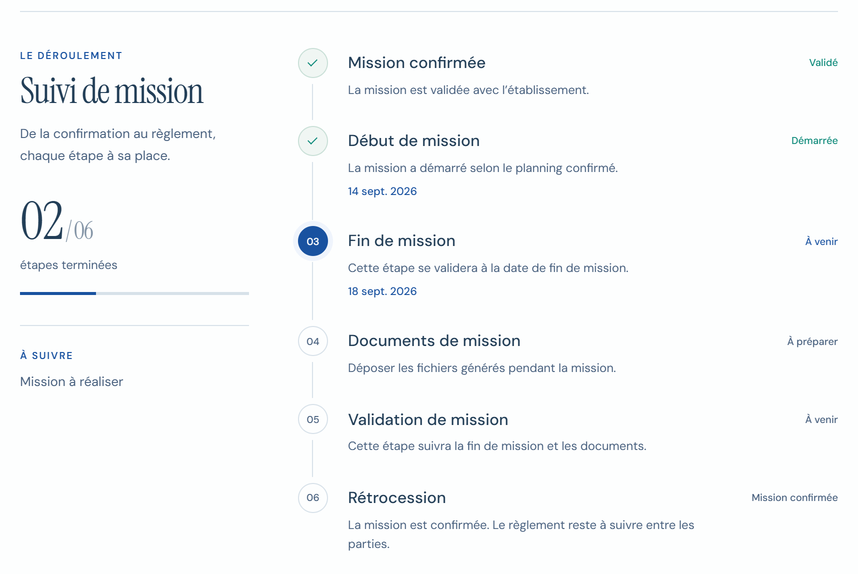
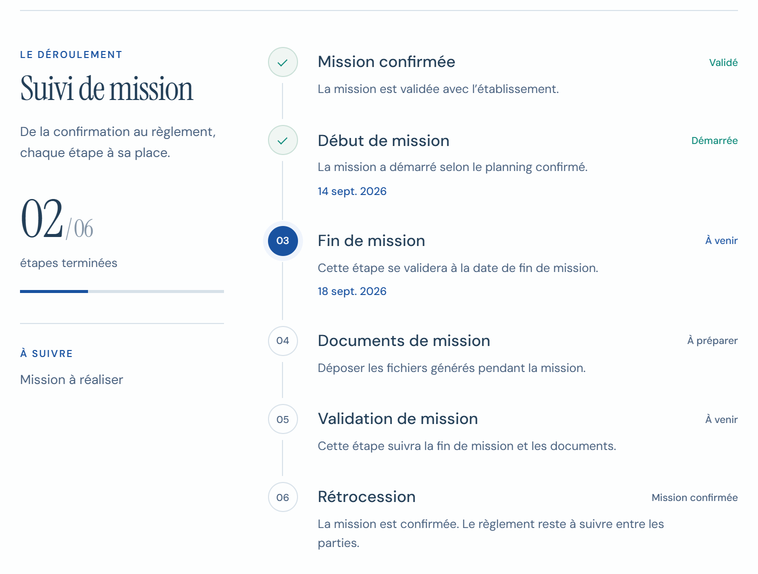
Refine landing interface previews and add mobile contributor carousel

diff --git a/medilink-frontend-v2-polished/app/(public-home)/interface-previews.css b/medilink-frontend-v2-polished/app/(public-home)/interface-previews.css
@@ -1,5 +1,4 @@
-/* Real application captures, with a separate mobile composition and no cropping
-   or stretching in the landing. Asset dimensions are generated by the capture. */
+/* Genuine application captures. Only the surrounding presentation is styled here. */
 html body.landing-home:not(.persona-page) .ml-dossier--captured {
   padding: 0;
   border: 0;
@@ -11,35 +10,42 @@ html body.landing-home:not(.persona-page) .ml-dossier--captured {
 html body.landing-home:not(.persona-page) .ml-interface-preview {
   min-width: 0;
   margin: 0;
-  padding: 16px;
-  border: 1px solid var(--brand-line);
-  border-radius: 20px;
-  background: var(--brand-frost);
-  box-shadow: var(--brand-shadow);
+  padding: 0;
+  border: 0;
+  border-radius: 0;
+  background: transparent;
+  box-shadow: none;
 }
-.landing-home .ml-interface-heading {
-  display: flex;
-  justify-content: space-between;
-  align-items: baseline;
-  gap: 14px;
-  padding: 3px 6px 17px;
-  color: var(--brand-muted);
-  font: 500 10px/1.5 var(--brand-sans);
+.landing-home .ml-interface-open { position: relative; display: block; color: var(--brand-primary); text-decoration: none; }
+.landing-home .ml-interface-stage {
+  display: block;
+  padding: 32px 28px 62px;
+  border-radius: 24px;
+  background: radial-gradient(ellipse at 30% 15%, #dde8f6 0%, #e9eff7 48%, #eff3f8 100%);
 }
-.landing-home .ml-interface-heading > span:last-child { color: var(--brand-primary); font: 400 19px/1 var(--brand-serif); }
-.landing-home .ml-interface-open { display: block; color: var(--brand-primary); }
-.landing-home .ml-interface-open picture {
+.landing-home .ml-interface-window {
   display: block;
   overflow: hidden;
-  border: 1px solid var(--brand-line);
-  border-radius: 10px;
+  border: 1px solid #cbd8e6;
+  border-radius: 12px;
   background: var(--brand-paper);
+  box-shadow: 0 22px 36px -24px #1e42654d, 0 3px 8px #1e42650a;
 }
+.landing-home .ml-interface-toolbar { display: flex; align-items: center; justify-content: space-between; gap: 12px; min-height: 36px; padding: 0 14px; border-bottom: 1px solid #dce4ed; background: #f8fafc; color: #61748b; font: 400 9px/1.4 var(--brand-sans); }
+.landing-home .ml-interface-window-dots { display: flex; gap: 5px; }
+.landing-home .ml-interface-window-dots i { width: 5px; height: 5px; border-radius: 50%; background: #c6d2df; }
+.landing-home .ml-interface-window-mark { color: #8b9caf; font: italic 14px/1 var(--brand-serif); }
+.landing-home .ml-interface-open picture { position: relative; display: block; overflow: hidden; background: var(--brand-paper); }
 .landing-home .ml-interface-open img { display: block; width: 100%; height: auto; max-width: 100%; }
-.landing-home .ml-interface-enlarge { display: flex; justify-content: flex-end; align-items: center; gap: 7px; min-height: 44px; padding: 8px 3px 0; font: 500 11px/1.4 var(--brand-sans); }
+.landing-home .ml-interface-enlarge { position: absolute; right: 28px; bottom: 6px; display: flex; align-items: center; gap: 9px; min-height: 44px; font: 500 11px/1.4 var(--brand-sans); }
+.landing-home .ml-interface-enlarge svg { transition: transform 180ms ease; }
+.landing-home .ml-interface-open:hover .ml-interface-enlarge svg { transform: translateX(3px); }
 .landing-home .ml-interface-open:hover .ml-interface-enlarge { text-decoration: underline; text-underline-offset: 4px; }
-.landing-home .ml-interface-open:focus-visible { outline: 2px solid var(--brand-focus); outline-offset: 4px; border-radius: 10px; }
-html body.landing-home:not(.persona-page) .ml-interface-preview figcaption { padding: 0 3px 3px; margin-top: -30px; margin-right: 92px; color: var(--brand-muted); font: 400 9px/1.6 var(--brand-sans); text-align: left; }
+.landing-home .ml-interface-open:focus-visible { outline: 2px solid var(--brand-focus); outline-offset: 5px; border-radius: 24px; }
+html body.landing-home:not(.persona-page) .ml-interface-preview figcaption { display: flex; flex-wrap: wrap; justify-content: space-between; gap: 5px 18px; margin: 15px 2px 0; padding: 0; color: #61748b; font: 400 9px/1.6 var(--brand-sans); text-align: left; }
+.landing-home .ml-interface-title { color: var(--brand-muted); font-size: 10px; font-weight: 500; }
+.landing-home .ml-interface-preview--wide .ml-interface-stage { padding: 36px 36px 64px; }
+.landing-home .ml-interface-preview--wide .ml-interface-enlarge { right: 36px; }
 
 .ml-interface-modal-open { overflow: hidden; }
 .ml-interface-dialog { position: fixed; inset: 0; width: min(1280px, calc(100vw - 48px)); max-width: none; max-height: calc(100dvh - 48px); margin: auto; padding: 0; border: 1px solid var(--brand-line); border-radius: 18px; color: var(--brand-text); background: var(--brand-paper); box-shadow: 0 28px 100px #10274440; }
@@ -57,11 +63,17 @@ html body.landing-home:not(.persona-page) .ml-interface-preview figcaption { pad
 .ml-interface-dialog-image.is-zoomed img { width: auto; max-width: none; max-height: none; }
 
 @media (max-width: 700px) {
-  html body.landing-home:not(.persona-page) .ml-interface-preview { width: 100%; max-width: 440px; margin-inline: auto; padding: 10px; border-radius: 16px; }
-  .landing-home .ml-interface-heading { padding: 5px 3px 13px; font-size: 9px; }
-  .landing-home .ml-interface-heading > span:last-child { font-size: 17px; }
-  html body.landing-home:not(.persona-page) .ml-interface-preview figcaption { margin-right: 74px; margin-top: -29px; font-size: 8px; }
-  .landing-home .ml-interface-enlarge { font-size: 10px; }
+  html body.landing-home:not(.persona-page) .ml-interface-preview { width: 100%; max-width: 440px; margin-inline: auto; }
+  .landing-home .ml-interface-preview .ml-interface-stage { padding: 22px 18px 58px; border-radius: 24px; }
+  .landing-home .ml-interface-window { width: min(100%, 310px); margin-inline: auto; padding: 6px; border: 1px solid #bdccde; border-radius: 26px; background: #fdfefe; box-shadow: 0 20px 35px -21px #1e42655c, 0 2px 5px #1e42650a; }
+  .landing-home .ml-interface-toolbar { display: none; }
+  .landing-home .ml-interface-open picture { border-radius: 20px; }
+  /* A complete group of mission steps; the enlargement retains all six. */
+  .landing-home .ml-interface-preview--mission picture { aspect-ratio: 360 / 534; }
+  .landing-home .ml-interface-preview--mission picture::after { content: ''; position: absolute; inset: auto 0 0; height: 24px; background: linear-gradient(transparent, var(--brand-paper)); pointer-events: none; }
+  .landing-home .ml-interface-preview .ml-interface-enlarge { right: 21px; bottom: 5px; font-size: 11px; }
+  html body.landing-home:not(.persona-page) .ml-interface-preview figcaption { flex-direction: column; align-items: center; gap: 3px; margin-top: 14px; font-size: 9px; text-align: center; }
+  .landing-home .ml-interface-title { font-size: 11px; }
   .ml-interface-dialog { width: calc(100vw - 16px); max-height: calc(100dvh - 16px); border-radius: 14px; }
   .ml-interface-dialog-head { align-items: flex-start; gap: 14px; padding: 16px; }
   .ml-interface-dialog-head h2 { font-size: 22px; }
@@ -71,4 +83,7 @@ html body.landing-home:not(.persona-page) .ml-interface-preview figcaption { pad
   .ml-interface-dialog-image { padding: 10px; max-height: calc(100dvh - 156px); }
   .ml-interface-dialog-image img { max-height: none; }
   .ml-interface-dialog-image.is-zoomed img { width: 780px; }
+}
+@media (prefers-reduced-motion: reduce) {
+  .landing-home .ml-interface-enlarge svg { transition: none; }
 }

diff --git a/medilink-frontend-v2-polished/content/landing-content.ts b/medilink-frontend-v2-polished/content/landing-content.ts
@@ -100,7 +100,7 @@ export const landingContent = {
           <h2 id="ml-testimonials-title">Des médecins ont participé <em>au <span class="title-accent">développement de la plateforme.</span></em></h2>
           <p>Quels critères comparer avant un remplacement ? Quelles informations partager avant le premier jour ? Que transmettre à la reprise ? Les médecins qui ont contribué à MédiLink ont aidé à préciser ces besoins.</p>
         </header>
-        <div class="ml-testimonials-grid"><figure class="ml-contributor"><div class="ml-contributor-photo"><img src="/landing-assets/temoignage-sarah-bernard.png" width="314" height="218" alt="Portrait d’illustration à remplacer par celui du médecin contributeur" loading="lazy" decoding="async"><span>Portrait d’illustration</span></div><figcaption><span class="ml-contributor-label">Médecin contributeur <span aria-hidden="true">01</span></span><h3>Dr [Prénom Nom]</h3><p class="ml-contributor-specialty">Spécialité · Mode d’exercice à renseigner</p><div class="ml-contributor-contribution"><h4>Ce qu’il ou elle a aidé à définir</h4><p>À compléter avec son rôle dans la conception et les besoins du terrain qu’il ou elle a contribué à préciser.</p></div></figcaption></figure>
+        <div class="ml-testimonials-grid" role="region" aria-label="Médecins contributeurs" tabindex="0"><figure class="ml-contributor"><div class="ml-contributor-photo"><img src="/landing-assets/temoignage-sarah-bernard.png" width="314" height="218" alt="Portrait d’illustration à remplacer par celui du médecin contributeur" loading="lazy" decoding="async"><span>Portrait d’illustration</span></div><figcaption><span class="ml-contributor-label">Médecin contributeur <span aria-hidden="true">01</span></span><h3>Dr [Prénom Nom]</h3><p class="ml-contributor-specialty">Spécialité · Mode d’exercice à renseigner</p><div class="ml-contributor-contribution"><h4>Ce qu’il ou elle a aidé à définir</h4><p>À compléter avec son rôle dans la conception et les besoins du terrain qu’il ou elle a contribué à préciser.</p></div></figcaption></figure>
 <figure class="ml-contributor"><div class="ml-contributor-photo"><img src="/landing-assets/temoignage-claire-martin.png" width="314" height="218" alt="Portrait d’illustration à remplacer par celui du médecin contributeur" loading="lazy" decoding="async"><span>Portrait d’illustration</span></div><figcaption><span class="ml-contributor-label">Médecin contributeur <span aria-hidden="true">02</span></span><h3>Dr [Prénom Nom]</h3><p class="ml-contributor-specialty">Spécialité · Mode d’exercice à renseigner</p><div class="ml-contributor-contribution"><h4>Ce qu’il ou elle a aidé à définir</h4><p>À compléter avec son rôle dans la conception et les besoins du terrain qu’il ou elle a contribué à préciser.</p></div></figcaption></figure>
 <figure class="ml-contributor"><div class="ml-contributor-photo"><img src="/landing-assets/temoignage-juliette-moreau.png" width="314" height="218" alt="Portrait d’illustration à remplacer par celui du médecin contributeur" loading="lazy" decoding="async"><span>Portrait d’illustration</span></div><figcaption><span class="ml-contributor-label">Médecin contributeur <span aria-hidden="true">03</span></span><h3>Dr [Prénom Nom]</h3><p class="ml-contributor-specialty">Spécialité · Mode d’exercice à renseigner</p><div class="ml-contributor-contribution"><h4>Ce qu’il ou elle a aidé à définir</h4><p>À compléter avec son rôle dans la conception et les besoins du terrain qu’il ou elle a contribué à préciser.</p></div></figcaption></figure></div>
       </div>

diff --git a/medilink-frontend-v2-polished/content/landing-interface-preview.ts b/medilink-frontend-v2-polished/content/landing-interface-preview.ts
@@ -10,15 +10,19 @@ export function interfacePreview(name: PreviewName, className: string, title: st
   const source = (device: typeof desktop, retina = false) =>
     `/landing-assets/interface/${name}-${device.device}${retina ? '@2x' : ''}.webp?v=${device.sha256.slice(0, 12)}`;
 
-  return `<figure class="${className} ml-interface-preview" aria-labelledby="ml-${name}-preview-title">
-    <div class="ml-interface-heading"><span id="ml-${name}-preview-title">${title}</span><span>MédiLink</span></div>
-    <a class="ml-interface-open" href="${source(desktop, true)}" target="_blank" rel="noopener" data-interface-preview="${name}" aria-label="Agrandir l’aperçu : ${title}">
-      <picture>
-        <source media="(max-width: 700px)" srcset="${source(mobile)} 1x, ${source(mobile, true)} 2x" width="${mobile.width}" height="${mobile.height}">
-        <img src="${source(desktop)}" srcset="${source(desktop)} 1x, ${source(desktop, true)} 2x" width="${desktop.width}" height="${desktop.height}" alt="${alt}" loading="lazy" decoding="async">
-      </picture>
-      <span class="ml-interface-enlarge"><svg viewBox="0 0 24 24" width="15" height="15" fill="none" stroke="currentColor" stroke-width="1.5" aria-hidden="true"><path d="M8 3H3v5M16 3h5v5M3 16v5h5M21 16v5h-5M3 3l6 6m12-6-6 6M3 21l6-6m12 6-6-6"/></svg>Agrandir</span>
+  return `<figure class="${className} ml-interface-preview ml-interface-preview--${name}" aria-labelledby="ml-${name}-preview-title">
+    <a class="ml-interface-open" href="${source(desktop, true)}" target="_blank" rel="noopener" data-interface-preview="${name}" aria-label="Voir l’interface : ${title} (agrandir)">
+      <span class="ml-interface-stage">
+        <span class="ml-interface-window">
+          <span class="ml-interface-toolbar" aria-hidden="true"><span class="ml-interface-window-dots"><i></i><i></i><i></i></span><span>${title}</span><span class="ml-interface-window-mark">ML</span></span>
+          <picture>
+            <source media="(max-width: 700px)" srcset="${source(mobile)} 1x, ${source(mobile, true)} 2x" width="${mobile.width}" height="${mobile.height}">
+            <img src="${source(desktop)}" srcset="${source(desktop)} 1x, ${source(desktop, true)} 2x" width="${desktop.width}" height="${desktop.height}" alt="${alt}" loading="lazy" decoding="async">
+          </picture>
+        </span>
+      </span>
+      <span class="ml-interface-enlarge">Voir l’interface<svg viewBox="0 0 24 24" width="16" height="16" fill="none" stroke="currentColor" stroke-width="1.5" aria-hidden="true"><path d="M5 12h14m-6-6 6 6-6 6"/></svg></span>
     </a>
-    <figcaption>Interface MédiLink · Données de démonstration</figcaption>
+    <figcaption><span id="ml-${name}-preview-title" class="ml-interface-title">${title}</span><span>Interface MédiLink · Données de démonstration</span></figcaption>
   </figure>`;
 }

diff --git a/medilink-frontend-v2-polished/app/(public-home)/contributors-carousel.css b/medilink-frontend-v2-polished/app/(public-home)/contributors-carousel.css
@@ -1,0 +1,29 @@
+/* Native horizontal scrolling keeps every contributor on one row on phones. */
+@media (max-width: 700px) {
+  .landing-home .ml-testimonials-grid {
+    grid-template-columns: none;
+    grid-auto-flow: column;
+    grid-auto-columns: min(86%, 360px);
+    gap: 16px;
+    max-width: none;
+    margin-inline: 0;
+    padding-bottom: 14px;
+    overflow-x: auto;
+    overscroll-behavior-x: contain;
+    scroll-snap-type: x mandatory;
+    scrollbar-width: thin;
+    scrollbar-color: var(--brand-primary) var(--brand-line);
+  }
+
+  .landing-home .ml-testimonials-grid > .ml-contributor {
+    min-width: 0;
+    scroll-snap-align: start;
+    scroll-snap-stop: always;
+  }
+}
+
+.landing-home .ml-testimonials-grid:focus-visible {
+  outline: 2px solid var(--brand-focus);
+  outline-offset: 5px;
+  border-radius: 4px;
+}

diff --git a/medilink-frontend-v2-polished/components/marketing/LandingInterfaceLightbox.tsx b/medilink-frontend-v2-polished/components/marketing/LandingInterfaceLightbox.tsx
@@ -23,7 +23,7 @@ export function LandingInterfaceLightbox() {
       const src = source?.getAttribute('srcset')?.split(',').at(-1)?.trim().split(/\s+/)[0] || img.currentSrc;
       setZoomed(false);
       setCapture({ src, alt: img.alt,
-        title: anchor.closest('figure')?.querySelector('.ml-interface-heading > span')?.textContent || 'Aperçu MédiLink',
+        title: anchor.closest('figure')?.querySelector('.ml-interface-title')?.textContent || 'Aperçu MédiLink',
         width: Number(source?.getAttribute('width')) || img.width,
         height: Number(source?.getAttribute('height')) || img.height,
       });

diff --git a/medilink-frontend-v2-polished/content/landing-workspace-preview.ts b/medilink-frontend-v2-polished/content/landing-workspace-preview.ts
@@ -1,5 +1,5 @@
 import { interfacePreview } from './landing-interface-preview';
 
 export const workspacePreview = `<div class="ml-dossier ml-dossier--captured" id="suivi" aria-label="Exemple du dossier partagé d’un remplacement">
-  ${interfacePreview('messages', 'ml-interface-preview--wide', 'La messagerie du remplacement', 'Messagerie MédiLink : navigation, conversation avec le cabinet et avancement du remplacement.')}
+  ${interfacePreview('messages', 'ml-interface-preview--wide', 'La messagerie du remplacement', 'Messagerie MédiLink : conversation avec le cabinet et avancement du remplacement.')}
 </div>`;

diff --git a/medilink-frontend-v2-polished/app/(public-home)/page.tsx b/medilink-frontend-v2-polished/app/(public-home)/page.tsx
@@ -8,6 +8,7 @@ import './hero-frame.css';
 import './section-spacing.css';
 import './blue-editorial.css';
 import './interface-previews.css';
+import './contributors-carousel.css';
 
 export const metadata = pageMetadata("Remplacement médical pour médecins et cabinets", "Préparez vos remplacements en médecine générale avec MédiLink : disponibilités, conditions d’exercice et échanges entre médecins remplaçants et cabinets.", "/");
 

diff --git a/medilink-frontend-v2-polished/AGENTS.md b/medilink-frontend-v2-polished/AGENTS.md
@@ -10,6 +10,8 @@ This block is written and re-added by `next dev` — verify at `node_modules/nex
 
 ## Landing pages and SEO
 
+The user rejected the first presentation of the genuine screenshots as unattractive. The preview treatment now uses closer native component captures, a light desktop window and a compact mobile frame, with captions outside. Preserve surrounding landing copy and sections. The mobile mission preview ends after the first three complete steps (360/534 crop); its enlargement keeps all six. Keep this crop aligned with natural row boundaries when regenerating that image. Messages exclude the global navigation; all captures still use the actual product CSS without screenshot-only restyling.
+
 The user subsequently requested aligning the real product interface to the homepage before replacing its invented screenshots. A palette-only change was rejected as visually too cheap; preserve the stronger editorial composition now implemented in the actual MessageCenter, mission folio and document register. `app/brand-tokens.css` shares locally hosted DM Sans / Instrument Serif fonts, brand blue #1952a0 and porcelain/pale-blue surfaces between public and platform layouts. `workspace-navigation.css`, `workspace-design.css`, `workspace-details.css` and `workspace-messages.css` apply these to real screens; keep success/warning/error colours distinct and retain all functional controls. Tablet message height must account for the bottom navigation after data has loaded.
 
 The three homepage interface previews now use genuine application captures from `scripts/capture-landing-interface.mjs` with fictional API fixtures, separate desktop/mobile layouts and lossless WebP assets. Their manifest provides dimensions and content hashes for `content/landing-interface-preview.ts`; regenerate the assets after changing captured UI. Never restyle the UI only for screenshots. The public captions identify demonstration data and previews can be enlarged. The continuity copy now describes the implemented mission steps, not the previously illustrated clinical metrics. This supersedes the earlier editorial mockup requirements below while preserving surrounding landing sections and the abstract process animations.

diff --git a/medilink-frontend-v2-polished/public/landing-assets/interface/README.md b/medilink-frontend-v2-polished/public/landing-assets/interface/README.md
@@ -14,8 +14,8 @@ The script uses an installed `playwright` module, or `PLAYWRIGHT_MODULE_PATH` wh
 
 The captures use French locale, Europe/Paris time and a fixed 16 September 2026 clock. All API responses are intercepted; an unknown API request or external service makes the run fail. The application font requests are permitted. The only injected CSS hides the Next.js development indicator.
 
-- Messages: `/app/messages?id=c1`, desktop navigation and the native mobile layout. The viewport height is calculated from the real rendered messages to keep the three text bubbles complete.
-- Mission: `/app/current-missions`, the real mission timeline with a small crop of its surrounding surface.
-- Documents: `/app/profile`, after selecting the Documents tab. The crop ends at a complete row boundary after four essential desktop documents or the first two mobile documents.
+- Messages: `/app/messages?id=c1`, the native `.message-layout` component. Desktop includes the conversation list; mobile shows the selected conversation. General application navigation and the page title stay outside the crop. The viewport height is calculated from the real rendered messages to keep all three text bubbles and the complete composer visible.
+- Mission: `/app/current-missions`, the real mission timeline with a small crop of its surrounding surface. The 1100 px desktop viewport keeps the native two-column timeline while making its contents larger in the landing preview; mobile remains at 390 px.
+- Documents: `/app/profile`, after selecting the Documents tab. The 1280 px desktop viewport keeps the native desktop document heading. The crop ends at a complete row boundary after four essential desktop documents or the first two mobile documents. The mobile viewport remains at 390 px.
 
 `manifest.json` records the source routes, viewport sizes, crops, output dimensions, browser version and SHA-256 of each 2× image. Both 1× and 2× files are lossless WebP. Regenerate the whole set after interface changes; do not retouch the UI inside individual images.
